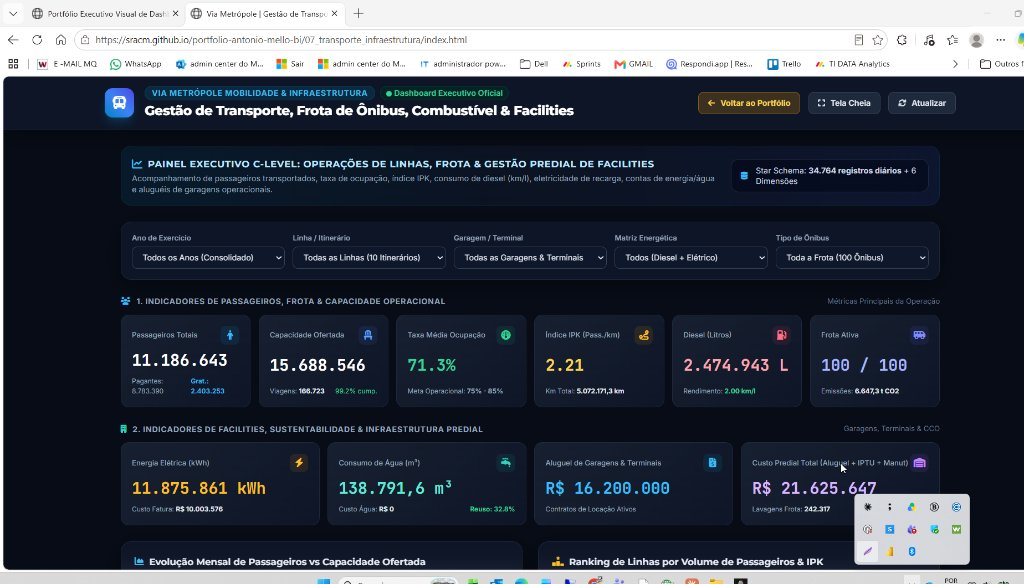
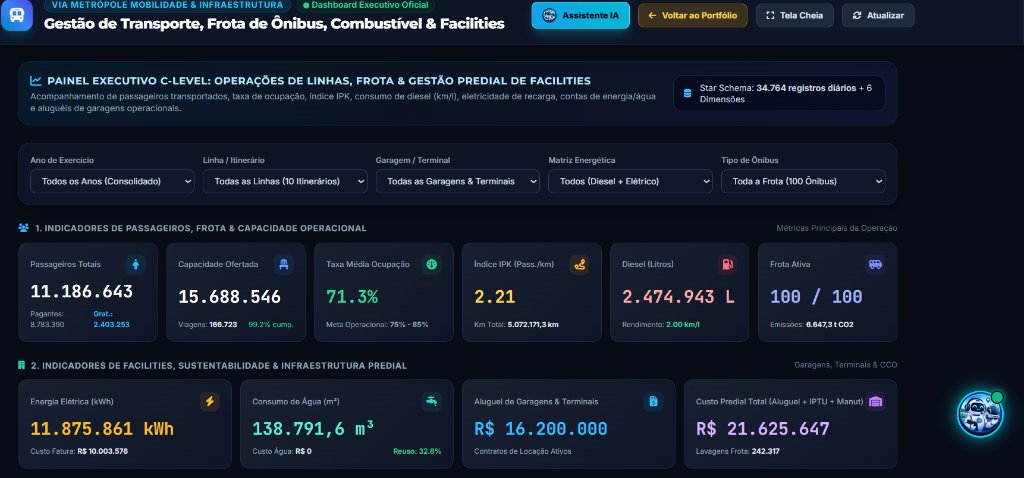
feat: atualizar screenshot do card Gestao de Transporte com icone de IA visivel

diff --git a/index.html b/index.html
@@ -1356,7 +1356,7 @@
           "Facilities & Utilities"
         ],
         "impact": "Redução de 6.4% no custo de diesel por passageiro, otimização de itinerários e controle de custos prediais de garagens.",
-        "image": "static/portfolio_screenshots/dash_portfolio_07_transporte.jpg?v=20261112",
+        "image": "static/portfolio_screenshots/dash_portfolio_07_transporte.jpg?v=20261114_ia",
         "is_static": false,
         "live_url": "07_transporte_infraestrutura/index.html?v=ia",
         "secondary_url": null,

diff --git a/portfolio_empresa.html b/portfolio_empresa.html
@@ -1353,7 +1353,7 @@
           "Facilities & Utilities"
         ],
         "impact": "Redução de 6.4% no custo de diesel por passageiro, otimização de itinerários e controle de custos prediais de garagens.",
-        "image": "static/portfolio_screenshots/dash_portfolio_07_transporte.jpg?v=20261112",
+        "image": "static/portfolio_screenshots/dash_portfolio_07_transporte.jpg?v=20261114_ia",
         "is_static": false,
         "live_url": "07_transporte_infraestrutura/index.html?v=ia",
         "secondary_url": null,

diff --git a/portifolio_empresa.html b/portifolio_empresa.html
@@ -1353,7 +1353,7 @@
           "Facilities & Utilities"
         ],
         "impact": "Redução de 6.4% no custo de diesel por passageiro, otimização de itinerários e controle de custos prediais de garagens.",
-        "image": "static/portfolio_screenshots/dash_portfolio_07_transporte.jpg?v=20261112",
+        "image": "static/portfolio_screenshots/dash_portfolio_07_transporte.jpg?v=20261114_ia",
         "is_static": false,
         "live_url": "07_transporte_infraestrutura/index.html?v=ia",
         "secondary_url": null,
